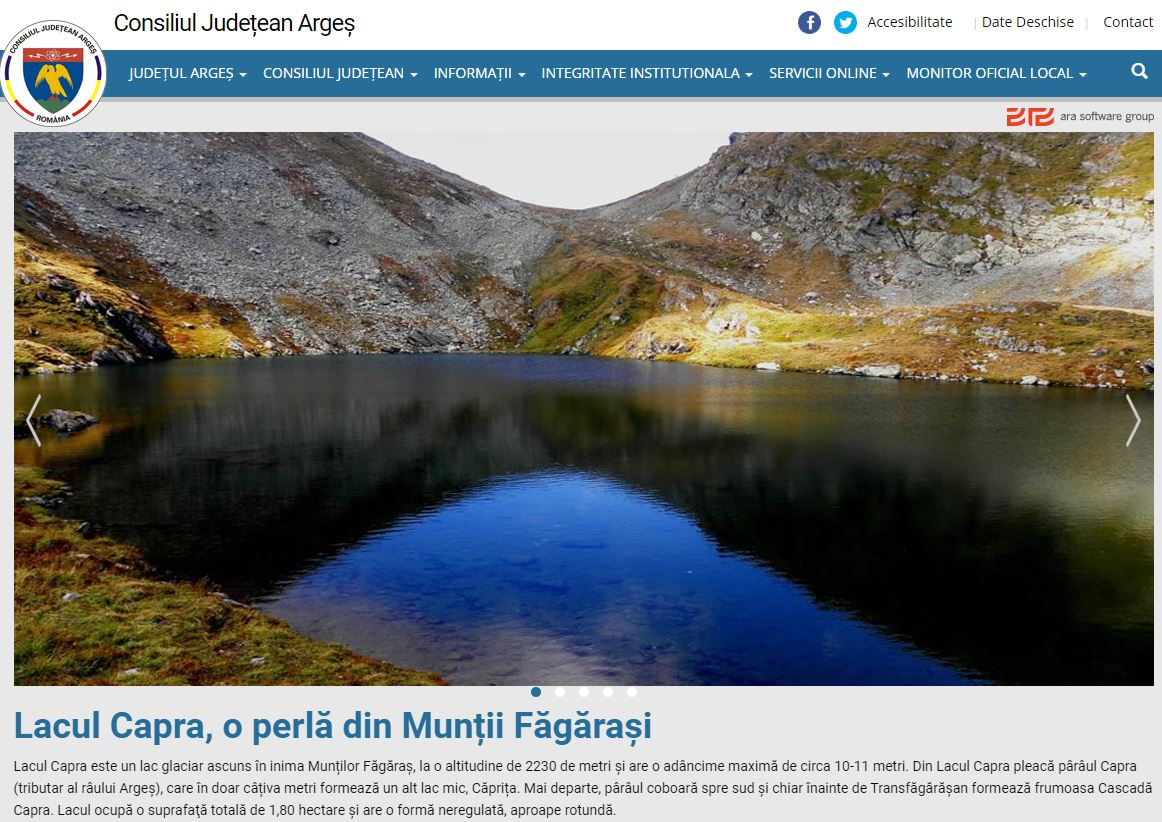
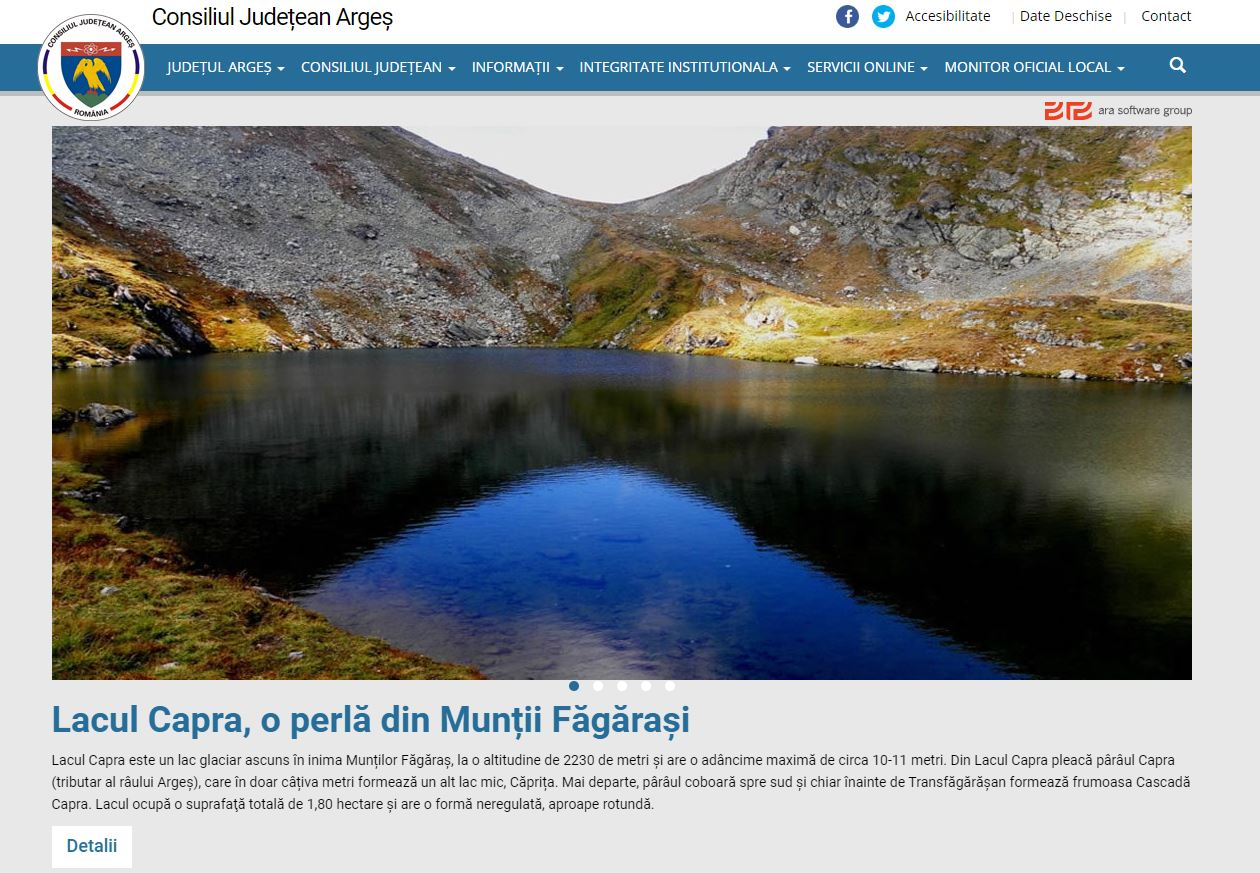
New commit

diff --git a/index.html b/index.html
@@ -130,26 +130,26 @@
         <!-- Full-width images with number and caption text -->
         <div class="mySlides fade">
           <div class="numbertext">1 / 4</div>
-          <img src="./cj-site-wide1.JPG.png" style="width:100%">
-          <div class="text">Caption Text</div>
+          <a href="https://www.cjarges.ro/" target="blank"><img src="./cj-site-wide1.JPG.png" style="width:100%"></a>
+          <!-- <div class="text">Caption Text</div> -->
         </div>
       
         <div class="mySlides fade">
           <div class="numbertext">2 / 4</div>
-          <img src="./primaria-site-wide.JPG" style="width:100%">
-          <div class="text">Caption Two</div>
+          <a href="https://www.primariapitesti.ro/" target="blank"><img src="./primaria-site-wide.JPG" style="width:100%"></a>
+          <!-- <div class="text">Caption Two</div> -->
         </div>
       
         <div class="mySlides fade">
           <div class="numbertext">3 / 4</div>
-          <img src="./marcea-site-wide.JPG" style="width:100%">
-          <div class="text">Caption Three</div>
+          <a href="https://www.marcea.ro/" target="blank"><img src="./marcea-site-wide.JPG" style="width:100%"></a>
+          <!-- <div class="text">Caption Three</div> -->
         </div>
 
         <div class="mySlides fade">
           <div class="numbertext">4 / 4</div>
-          <img src="./jts-site-wide.JPG" style="width:100%">
-          <div class="text">Caption Three</div>
+          <a href="https://www.jtssolar.ro/" target="blank"><img src="./jts-site-wide.JPG" style="width:100%"></a>
+          <!-- <div class="text">Caption Three</div> -->
         </div>
       
         <!-- Next and previous buttons -->

diff --git a/style.css b/style.css
@@ -319,7 +319,7 @@ section#home {
   z-index: 5;
   position: absolute;
   border-radius: 0 0 70% 70%;
-  font-size: xx-large;
+  font-size: 90%;
   font-weight: bold;
   text-align: center;
   vertical-align: middle;
@@ -677,6 +677,7 @@ section#parteneri .parteneri-logo {
 section#parteneri a {
   text-decoration: none;
   color:#fff;
+  text-transform: lowercase;
 }
 
 
@@ -751,7 +752,7 @@ a#parteneri-logo-jts {
   position: absolute;
   margin: auto;
   top: 35%;
-  width: 50%;
+  width: 40%;
   height: auto;
 }
 
@@ -1020,6 +1021,56 @@ a#parteneri-logo-jts {
     display: none;
   }
 
-  
+  /* Parteneri */
 
+  section#parteneri #parteneri-title {
+    font-size: 1.5rem;
+    top: 3%;
+  }
+
+  .slideshow-container {
+    width: 90%;
+    top: 45%;
+  }
+
+  section#parteneri .parteneri-logo {
+    grid-template-columns: 50% 50%;
+    grid-template-rows: 50% 50%;
+  }
+
+  a#parteneri-logo-cj, a#parteneri-logo-primarie, a#parteneri-logo-marcea, a#parteneri-logo-jts {
+    width: 30%;
+    height: 50%;
+    margin-left: 7%;
+  }
+
+  a#parteneri-logo-primarie { 
+    width: 50%;
+    background-size: 110% 45%;
+    margin-left: 0;
+  }
+
+  a#parteneri-logo-marcea {
+    width: 50%;
+    background-size: 80% 35%;
+    margin-left: 0;
+  }
+
+  a#parteneri-logo-jts {
+    width: 50%;
+    margin-left: 0;
+  }
+
+  a#parteneri-site-cj, a#parteneri-site-primarie {
+    font-size: 0.55rem;
+    text-align: center;
+    top: 50%;
+    bottom: auto;
+  }
+
+  a#parteneri-site-marcea, a#parteneri-site-jts {
+    font-size: 0.55rem;
+    bottom: 3%;
+  }
 }
+

diff --git a/script.js b/script.js
@@ -58,33 +58,19 @@ function updateCountdown() {
 }
 
 ////////////////////////////////////////////////////////////////
-let slideIndex = 1;
-showSlides(slideIndex);
+let slideIndex = 0;
+showSlides();
 
-// Next/previous controls
-function plusSlides(n) {
-  showSlides(slideIndex += n);
-}
-
-// Thumbnail image controls
-function currentSlide(n) {
-  showSlides(slideIndex = n);
-}
-
-function showSlides(n) {
+function showSlides() {
   let i;
   let slides = document.getElementsByClassName("mySlides");
-  let dots = document.getElementsByClassName("dot");
-  if (n > slides.length) {slideIndex = 1}
-  if (n < 1) {slideIndex = slides.length}
   for (i = 0; i < slides.length; i++) {
     slides[i].style.display = "none";
   }
-  for (i = 0; i < dots.length; i++) {
-    dots[i].className = dots[i].className.replace(" active", "");
-  }
+  slideIndex++;
+  if (slideIndex > slides.length) {slideIndex = 1}
   slides[slideIndex-1].style.display = "block";
-  dots[slideIndex-1].className += " active";
+  setTimeout(showSlides, 3000); // Change image every 2 seconds
 }
 
 // Event Listeners
